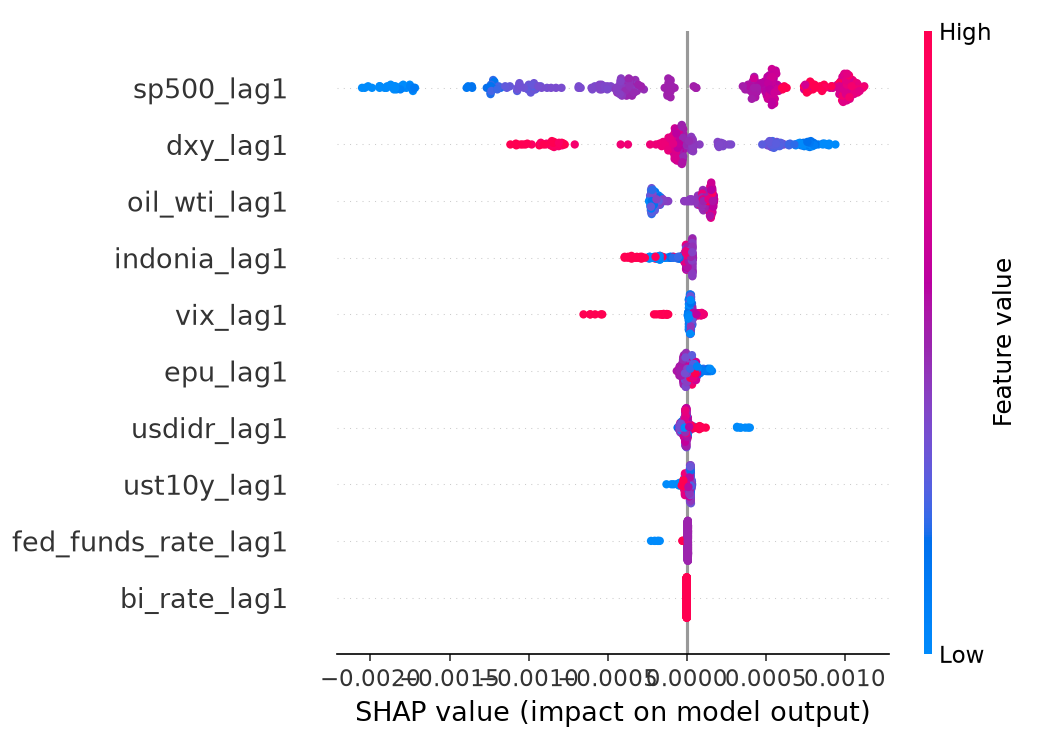
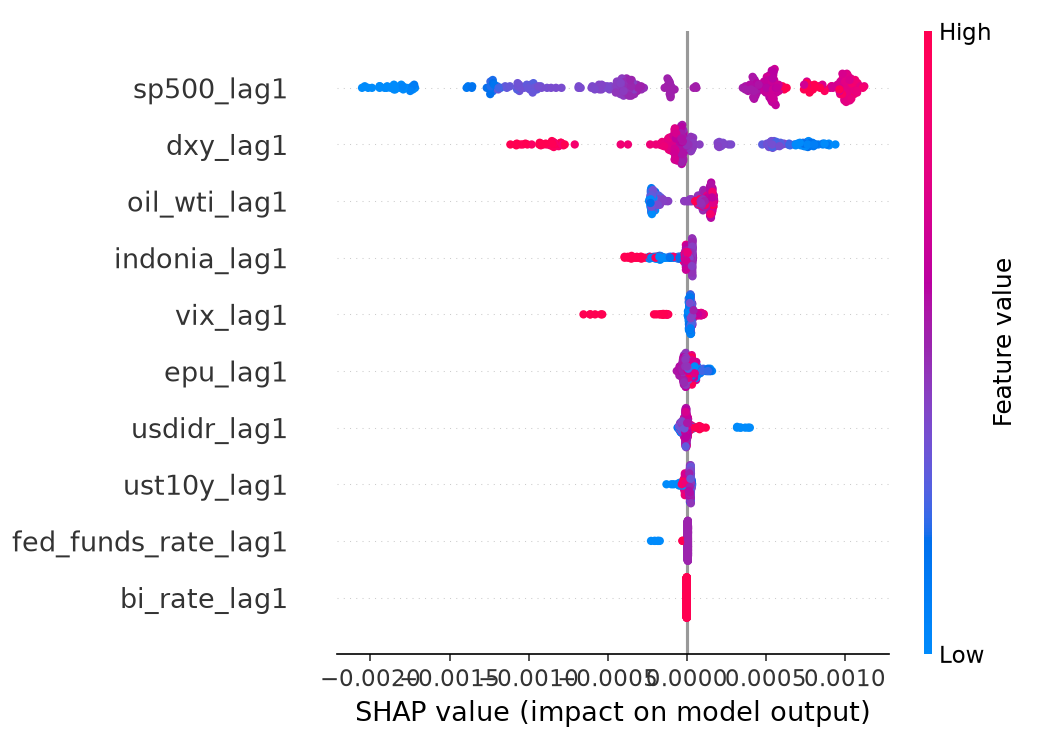
push all

diff --git a/src/hari4_SHAP.py b/src/hari4_SHAP.py
@@ -103,7 +103,7 @@ plt.close()
 #     volatilitas tinggi vs rendah pada data uji. Independent samples,
 #     non-parametrik (SHAP tidak dijamin normal).
 # ============================================================
-vol20 = df["return_ihsg"].rolling(20).std()
+vol20 = df["return_ihsg"].rolling(20).std().shift(1)
 vol_test = vol20.reindex(y_test.index)
 mask_high_vol = (vol_test > vol_test.median()).values
 
